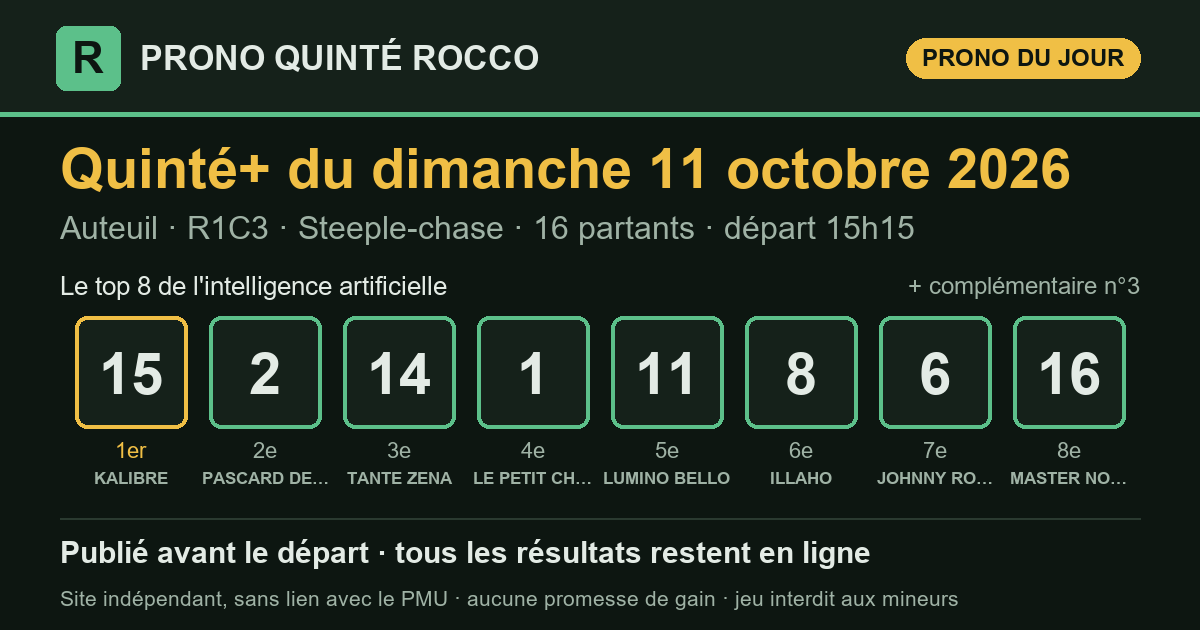
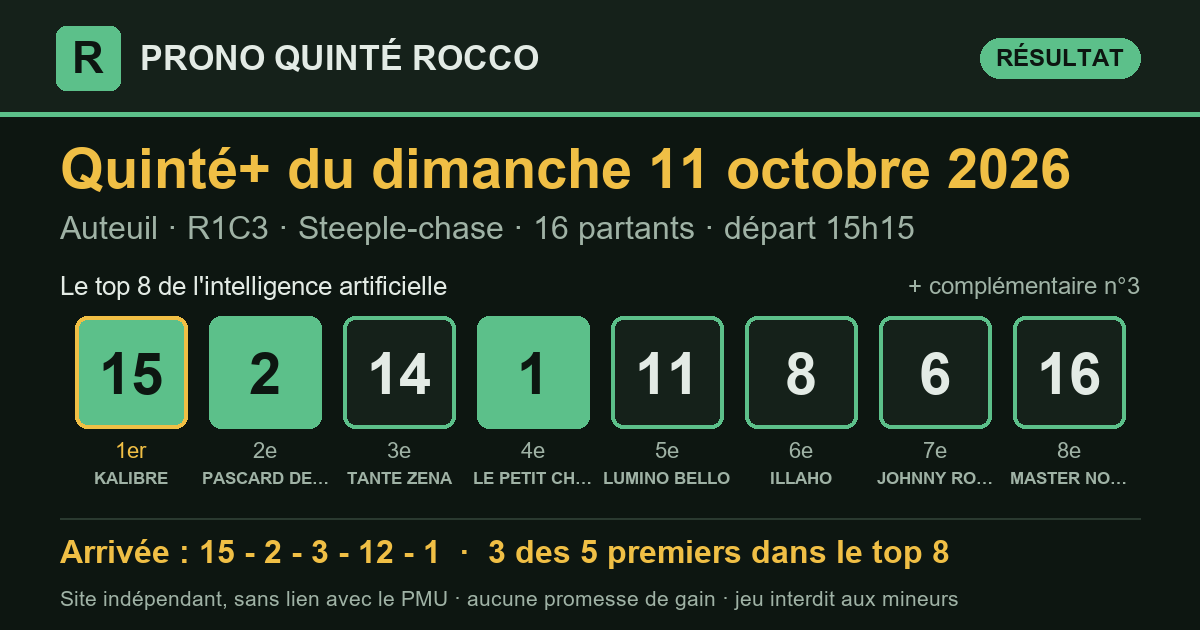
Prono Quinté+ 2026-10-11 Auteuil R1C3 — publié le 11/10/2026 15:35 (heure de Paris)

diff --git a/partants.html b/partants.html
@@ -3,14 +3,14 @@
 <head>
 <meta charset="utf-8">
 <meta name="viewport" content="width=device-width, initial-scale=1, viewport-fit=cover">
-<title>Partants du Quinté+ du dimanche 11 octobre 2026 — Prono Quinté Rocco</title>
+<title>Partants du Quinté+ du lundi 12 octobre 2026 — Prono Quinté Rocco</title>
 <meta name="description" content="Les partants du prochain Quinté+ (programme officiel du PMU), avec le rang du prono IA et les liens vers les pronostics de la presse.">
 <link rel="canonical" href="https://roccogp971.github.io/prono-quinte-rocco/partants.html">
 <link rel="stylesheet" href="style.css?v=9e1a392f">
 <meta property="og:site_name" content="Prono Quinté Rocco">
 <meta property="og:locale" content="fr_FR">
 <meta property="og:type" content="website">
-<meta property="og:title" content="Partants du Quinté+ du dimanche 11 octobre 2026 — Prono Quinté Rocco">
+<meta property="og:title" content="Partants du Quinté+ du lundi 12 octobre 2026 — Prono Quinté Rocco">
 <meta property="og:description" content="Les partants du prochain Quinté+ (programme officiel du PMU), avec le rang du prono IA et les liens vers les pronostics de la presse.">
 <meta property="og:url" content="https://roccogp971.github.io/prono-quinte-rocco/partants.html">
 <meta name="twitter:card" content="summary">
@@ -26,100 +26,100 @@
   <p class="surtitre">Programme officiel du PMU</p>
   <h1>Les partants du prochain Quinté+</h1>
   <div class="fiche-course">
-    <p class="fiche-date">Dimanche 11 octobre 2026</p>
-    <div class="fiche-rc"><span class="pastille" title="Réunion 1">R1</span><span class="pastille" title="Course 3">C3</span><span class="fiche-nom">Prix Montgomery (groupe Iii)</span></div>
-    <p class="meta">Auteuil · Obstacle · 4 700 m · 16 partants</p>
-    <p class="fiche-depart">Départ <b>15:15</b> <span>heure de Paris</span></p>
+    <p class="fiche-date">Lundi 12 octobre 2026</p>
+    <div class="fiche-rc"><span class="pastille" title="Réunion 1">R1</span><span class="pastille" title="Course 4">C4</span><span class="fiche-nom">Prix Jacques Rossi (prix Jules Morgan)</span></div>
+    <p class="meta">Borely · Plat · 2 100 m · 16 partants</p>
+    <p class="fiche-depart">Départ <b>13:55</b> <span>heure de Paris</span></p>
   </div>
   <p class="surtitre">Les pronostics ailleurs sur le web</p>
-  <div class="liens"><a class="lien-ext" href="https://www.turfoo.fr/programmes-courses/261011/reunion1-auteuil/course3-prix-montgomery-groupe-iii/pronostics-presse/" rel="noopener" target="_blank"><b>Les pronostics de la presse →</b><span>sur Turfoo (site extérieur)</span></a><a class="lien-ext" href="https://www.geny.com/programme/2026-10-11" rel="noopener" target="_blank"><b>Partants et pronostics →</b><span>programme du jour sur Geny (site extérieur)</span></a></div>
+  <div class="liens"><a class="lien-ext" href="https://www.turfoo.fr/programmes-courses/261012/reunion1-marseille-borely/course4-prix-jacques-rossi-prix-jules-morgan/pronostics-presse/" rel="noopener" target="_blank"><b>Les pronostics de la presse →</b><span>sur Turfoo (site extérieur)</span></a><a class="lien-ext" href="https://www.geny.com/programme/2026-10-12" rel="noopener" target="_blank"><b>Partants et pronostics →</b><span>programme du jour sur Geny (site extérieur)</span></a></div>
   <div class="liste-boite"><table class="liste-partants">
     <thead><tr><th>N°</th><th>Cheval</th><th class="cote"><span class="long">Cote du matin</span><span class="court">Cote</span></th>
     <th class="ia"><span class="long">Prono IA</span><span class="court">IA</span></th></tr></thead>
     <tbody><tr>
   <td><span class="tapis petit">1</span></td>
-  <td><span class="cheval">LE PETIT CHEVAL</span><span class="sous">B.LE CLERC · F.BELLEMERE</span></td>
-  <td class="cote num">10,0</td>
-  <td class="ia"><span class="etat place">4<sup>e</sup></span></td>
+  <td><span class="cheval">BAYAMOON</span><span class="sous">F.VERON · J.REYNIER (S)</span></td>
+  <td class="cote num">—</td>
+  <td class="ia">—</td>
 </tr><tr>
   <td><span class="tapis petit">2</span></td>
-  <td><span class="cheval">PASCARD DE BEAUSSE</span><span class="sous">G.MASURE · CHAILLE-CHAILLE &amp; PAMART</span></td>
-  <td class="cote num">6,6</td>
-  <td class="ia"><span class="etat place">2<sup>e</sup></span></td>
+  <td><span class="cheval">WINDFLOWER</span><span class="sous">H.BESNIER · P.COTTIER</span></td>
+  <td class="cote num">—</td>
+  <td class="ia">—</td>
 </tr><tr>
   <td><span class="tapis petit">3</span></td>
-  <td><span class="cheval">AMY DU KIFF</span><span class="sous">T.CHEVILLARD · GAB.LEENDERS (S)</span></td>
-  <td class="cote num">13,0</td>
-  <td class="ia"><span class="etat place">compl.</span></td>
+  <td><span class="cheval">MORPHEWAN</span><span class="sous">T.PICCONE · P.COTTIER</span></td>
+  <td class="cote num">—</td>
+  <td class="ia">—</td>
 </tr><tr>
   <td><span class="tapis petit">4</span></td>
-  <td><span class="cheval">QUEL PATRON</span><span class="sous">THO .JOURNIAC · P.JOURNIAC</span></td>
-  <td class="cote num">19,0</td>
+  <td><span class="cheval">PLATA D OCTOBRE</span><span class="sous">H.BOUTIN · MME N.SIGAUD</span></td>
+  <td class="cote num">—</td>
   <td class="ia">—</td>
 </tr><tr>
   <td><span class="tapis petit">5</span></td>
-  <td><span class="cheval">PICKLAND</span><span class="sous">F.GILES · GAB.LEENDERS (S)</span></td>
-  <td class="cote num">34,0</td>
+  <td><span class="cheval">LINFASOMMER</span><span class="sous">A.HAMELIN · M.PITART</span></td>
+  <td class="cote num">—</td>
   <td class="ia">—</td>
 </tr><tr>
   <td><span class="tapis petit">6</span></td>
-  <td><span class="cheval">JOHNNY ROQUE</span><span class="sous">J.CHARRON · D.MELE (S)</span></td>
-  <td class="cote num">10,0</td>
-  <td class="ia"><span class="etat place">7<sup>e</sup></span></td>
+  <td><span class="cheval">BOOGIE</span><span class="sous">A.CRASTUS · N.PERRET (S)</span></td>
+  <td class="cote num">—</td>
+  <td class="ia">—</td>
 </tr><tr>
   <td><span class="tapis petit">7</span></td>
-  <td><span class="cheval">CALIGRAMME</span><span class="sous">A.RENARD · D.MELE (S)</span></td>
-  <td class="cote num">20,0</td>
+  <td><span class="cheval">SOUS INFLUENCE</span><span class="sous">M.VELON · C.ESCUDER</span></td>
+  <td class="cote num">—</td>
   <td class="ia">—</td>
 </tr><tr>
   <td><span class="tapis petit">8</span></td>
-  <td><span class="cheval">ILLAHO</span><span class="sous">J.REVELEY · N. GEORGE &amp; A. ZETTERHOLM</span></td>
-  <td class="cote num">10,0</td>
-  <td class="ia"><span class="etat place">6<sup>e</sup></span></td>
+  <td><span class="cheval">AMEDRAS</span><span class="sous">D.PROVOST · MME L.SALTON</span></td>
+  <td class="cote num">—</td>
+  <td class="ia">—</td>
 </tr><tr>
   <td><span class="tapis petit">9</span></td>
-  <td><span class="cheval">GINJA DES TAILLONS</span><span class="sous">K.NABET · E.ANDIGNE D&#x27;</span></td>
-  <td class="cote num">19,0</td>
+  <td><span class="cheval">STARNBERG</span><span class="sous">J.NICOLEAU · C.ESCUDER</span></td>
+  <td class="cote num">—</td>
   <td class="ia">—</td>
 </tr><tr>
   <td><span class="tapis petit">10</span></td>
-  <td><span class="cheval">LEBRIO DES MOTTES</span><span class="sous">A.ZULIANI · F.NICOLLE</span></td>
-  <td class="cote num">23,0</td>
+  <td><span class="cheval">COMME QUOI</span><span class="sous">S.PASQUIER · N.PERRET (S)</span></td>
+  <td class="cote num">—</td>
   <td class="ia">—</td>
 </tr><tr>
   <td><span class="tapis petit">11</span></td>
-  <td><span class="cheval">LUMINO BELLO</span><span class="sous">L.ZULIANI · SOURDEAU DE BEAUREGARD (S</span></td>
-  <td class="cote num">20,0</td>
-  <td class="ia"><span class="etat place">5<sup>e</sup></span></td>
+  <td><span class="cheval">LOHENGREEN</span><span class="sous">M.GRANDIN · C.ESCUDER</span></td>
+  <td class="cote num">—</td>
+  <td class="ia">—</td>
 </tr><tr>
   <td><span class="tapis petit">12</span></td>
-  <td><span class="cheval">BENOU</span><span class="sous">F.BAYLE · M.ROLLAND (S)</span></td>
-  <td class="cote num">35,0</td>
+  <td><span class="cheval">MAX VERST</span><span class="sous">A.ORANI · R.FRADET (S)</span></td>
+  <td class="cote num">—</td>
   <td class="ia">—</td>
 </tr><tr>
   <td><span class="tapis petit">13</span></td>
-  <td><span class="cheval">KUCHARSKY</span><span class="sous">A.CHESNEAU · Y.FOUIN (S)</span></td>
-  <td class="cote num">50,0</td>
+  <td><span class="cheval">GOLD PLAYER</span><span class="sous">I.MENDIZABAL · F.FORESI</span></td>
+  <td class="cote num">—</td>
   <td class="ia">—</td>
 </tr><tr>
   <td><span class="tapis petit">14</span></td>
-  <td><span class="cheval">TANTE ZENA</span><span class="sous">L.PHILIPPERON · M.SEROR (S)</span></td>
-  <td class="cote num">8,4</td>
-  <td class="ia"><span class="etat place">3<sup>e</sup></span></td>
+  <td><span class="cheval">METS LE FEU</span><span class="sous">E.HARDOUIN · M.PITART</span></td>
+  <td class="cote num">—</td>
+  <td class="ia">—</td>
 </tr><tr>
   <td><span class="tapis petit">15</span></td>
-  <td><span class="cheval">KALIBRE</span><span class="sous">J.PHELIPPE · M.SEROR (S)</span></td>
-  <td class="cote num">5,7</td>
-  <td class="ia"><span class="etat place">1<sup>er</sup></span></td>
+  <td><span class="cheval">NOUS Y SOMMES</span><span class="sous">T.TRULLIER · N.PERRET (S)</span></td>
+  <td class="cote num">—</td>
+  <td class="ia">—</td>
 </tr><tr>
   <td><span class="tapis petit">16</span></td>
-  <td><span class="cheval">MASTER NONANTAIS</span><span class="sous">A.DUVACHER · SOURDEAU DE BEAUREGARD (S</span></td>
-  <td class="cote num">21,0</td>
-  <td class="ia"><span class="etat place">8<sup>e</sup></span></td>
+  <td><span class="cheval">TREATWOOD</span><span class="sous">L.BOISSEAU · N.BELLANGER (S)</span></td>
+  <td class="cote num">—</td>
+  <td class="ia">—</td>
 </tr></tbody>
   </table></div>
-  <p class="meta">Le rang du prono IA est celui publié sur ce site. Sous chaque cheval : jockey · entraîneur. Partants et cotes : programme
-  officiel du PMU, lu le 11/10 à 12:44 (heure de Paris). NP = non-partant.</p>
+  <p class="meta">Le prono IA de cette course sera publié le matin de la course, avant le départ. Sous chaque cheval : jockey · entraîneur. Partants et cotes : programme
+  officiel du PMU, lu le 11/10 à 15:35 (heure de Paris). NP = non-partant.</p>
 </section>
 </main>
 <footer class="pied">

diff --git a/index.html b/index.html
@@ -13,7 +13,7 @@
 <meta property="og:title" content="Pronostic Quinté+ du dimanche 11 octobre 2026 — Prono Quinté Rocco">
 <meta property="og:description" content="Le pronostic du Quinté+ par intelligence artificielle, publié avant le départ, avec tous les résultats et le rendement réel.">
 <meta property="og:url" content="https://roccogp971.github.io/prono-quinte-rocco/">
-<meta property="og:image" content="https://roccogp971.github.io/prono-quinte-rocco/partage/2026-10-11.png?v=43c661ad">
+<meta property="og:image" content="https://roccogp971.github.io/prono-quinte-rocco/partage/2026-10-11.png?v=3a40b48b">
 <meta property="og:image:type" content="image/png">
 <meta property="og:image:width" content="1200">
 <meta property="og:image:height" content="630">
@@ -28,15 +28,15 @@
 </header>
 <main>
 <section class="une" aria-labelledby="t-jour">
-  <p class="surtitre">Quinté+ du jour</p>
+  <p class="surtitre">Dernier Quinté+</p>
   <h1 id="t-jour">Le prono du Quinté+, résultats compris</h1>
   <p class="chapo">Chaque matin, une intelligence artificielle classe les partants du
   Quinté+. Le classement est publié avant le départ, puis comparé à l'arrivée
   officielle. Tous les résultats restent en ligne, les bons comme les mauvais.</p>
   <article class="carte-course">
-  <div class="tete"><h2>Dimanche 11 octobre 2026</h2><span class="etat attente">arrivée en attente</span></div>
+  <div class="tete"><h2>Dimanche 11 octobre 2026</h2><span class="etat place">3 des 5 premiers dans le top 8</span></div>
   <p class="meta">Auteuil · <strong>R1C3</strong> · Steeple-chase · 16 partants · lisibilité <span class="note" aria-label="note 2 sur 5"><i class="on"></i><i class="on"></i><i class=""></i><i class=""></i><i class=""></i></span> 2/5</p>
-  <ol class="partants" aria-label="Classement du prono"><li><span class="rang">1<sup>er</sup></span><span class="tapis ">15</span><span class="nom">KALIBRE</span></li><li><span class="rang">2<sup>e</sup></span><span class="tapis ">2</span><span class="nom">PASCARD DE BEAUSSE</span></li><li><span class="rang">3<sup>e</sup></span><span class="tapis ">14</span><span class="nom">TANTE ZENA</span></li><li><span class="rang">4<sup>e</sup></span><span class="tapis ">1</span><span class="nom">LE PETIT CHEVAL</span></li><li><span class="rang">5<sup>e</sup></span><span class="tapis ">11</span><span class="nom">LUMINO BELLO</span></li><li><span class="rang">6<sup>e</sup></span><span class="tapis ">8</span><span class="nom">ILLAHO</span></li><li><span class="rang">7<sup>e</sup></span><span class="tapis ">6</span><span class="nom">JOHNNY ROQUE</span></li><li><span class="rang">8<sup>e</sup></span><span class="tapis ">16</span><span class="nom">MASTER NONANTAIS</span></li><li><span class="rang">compl.</span><span class="tapis creux">3</span><span class="nom">AMY DU KIFF</span></li></ol>
+  <ol class="partants" aria-label="Classement du prono"><li><span class="rang">1<sup>er</sup></span><span class="tapis plein">15</span><span class="nom">KALIBRE</span></li><li><span class="rang">2<sup>e</sup></span><span class="tapis plein">2</span><span class="nom">PASCARD DE BEAUSSE</span></li><li><span class="rang">3<sup>e</sup></span><span class="tapis ">14</span><span class="nom">TANTE ZENA</span></li><li><span class="rang">4<sup>e</sup></span><span class="tapis plein">1</span><span class="nom">LE PETIT CHEVAL</span></li><li><span class="rang">5<sup>e</sup></span><span class="tapis ">11</span><span class="nom">LUMINO BELLO</span></li><li><span class="rang">6<sup>e</sup></span><span class="tapis ">8</span><span class="nom">ILLAHO</span></li><li><span class="rang">7<sup>e</sup></span><span class="tapis ">6</span><span class="nom">JOHNNY ROQUE</span></li><li><span class="rang">8<sup>e</sup></span><span class="tapis ">16</span><span class="nom">MASTER NONANTAIS</span></li><li><span class="rang">compl.</span><span class="tapis creux plein">3</span><span class="nom">AMY DU KIFF</span></li></ol>
   <div class="pied-carte"><span>Analysé le 11/10 à 12:33 · en ligne le 11/10 à 12:44 · départ à 15:15 (heure de Paris)</span><span><a href="quinte/2026-10-11.html">Détail de la course</a></span></div>
 </article>
   <div class="legende"><span><span class="tapis plein petit">4</span> numéro dans les 5 premiers</span>
@@ -53,7 +53,7 @@
 </section>
 <section class="bilan" aria-labelledby="t-bilan">
   <h2 id="t-bilan">Le bilan depuis le 8 septembre 2026</h2>
-  <div class="tableau chiffres"><div class="case"><span class="gros ">74 %</span><span class="lib">des arrivants trouvés dans le top 8</span><span class="ref">un top 8 tiré au hasard : 52 %</span></div><div class="case"><span class="gros ">84 %</span><span class="lib">des gagnants présents dans le top 8</span><span class="ref"></span></div><div class="case"><span class="gros ">53 %</span><span class="lib">1er du prono placé</span><span class="ref">sur 32 Quintés</span></div><div class="case"><span class="gros perte">0,96 €</span><span class="lib">rendus pour 1 € joué placé sur le 1er</span><span class="ref">rapports officiels PMU</span></div><div class="case"><span class="gros perte">0,44 €</span><span class="lib">rendus pour 1 € joué en Quinté+ combiné top 8</span><span class="ref">56 combinaisons, rapports PMU.fr, sur 32 Quintés</span></div></div>
+  <div class="tableau chiffres"><div class="case"><span class="gros ">74 %</span><span class="lib">des arrivants trouvés dans le top 8</span><span class="ref">un top 8 tiré au hasard : 52 %</span></div><div class="case"><span class="gros ">85 %</span><span class="lib">des gagnants présents dans le top 8</span><span class="ref"></span></div><div class="case"><span class="gros ">53 %</span><span class="lib">1er du prono placé</span><span class="ref">sur 32 Quintés</span></div><div class="case"><span class="gros perte">0,96 €</span><span class="lib">rendus pour 1 € joué placé sur le 1er</span><span class="ref">rapports officiels PMU</span></div><div class="case"><span class="gros perte">0,42 €</span><span class="lib">rendus pour 1 € joué en Quinté+ combiné top 8</span><span class="ref">56 combinaisons, rapports PMU.fr, sur 33 Quintés</span></div></div>
   <p class="avertissement">Moins de 1 € rendu pour 1 € joué : suivre ce prono à la lettre fait <strong>perdre de l'argent</strong> sur cette période. Il sert à analyser une course, pas à promettre un gain.</p>
 </section>
 </main>

diff --git a/quinte/2026-10-11.html b/quinte/2026-10-11.html
@@ -13,7 +13,7 @@
 <meta property="og:title" content="Pronostic Quinté+ du dimanche 11 octobre 2026 à Auteuil — Prono Quinté Rocco">
 <meta property="og:description" content="Prono Quinté+ du dimanche 11 octobre 2026 (Auteuil) : top 8, arrivée officielle et rapports PMU.fr.">
 <meta property="og:url" content="https://roccogp971.github.io/prono-quinte-rocco/quinte/2026-10-11.html">
-<meta property="og:image" content="https://roccogp971.github.io/prono-quinte-rocco/partage/2026-10-11.png?v=43c661ad">
+<meta property="og:image" content="https://roccogp971.github.io/prono-quinte-rocco/partage/2026-10-11.png?v=3a40b48b">
 <meta property="og:image:type" content="image/png">
 <meta property="og:image:width" content="1200">
 <meta property="og:image:height" content="630">
@@ -32,11 +32,19 @@
   <h1>Pronostic Quinté+ du dimanche 11 octobre 2026</h1>
   <p class="chapo">Auteuil · R1C3 · Steeple-chase · 16 partants</p>
   <article class="carte-course">
-  <div class="tete"><h2>Le prono : top 8 et complémentaire</h2><span class="etat attente">arrivée en attente</span></div>
+  <div class="tete"><h2>Le prono : top 8 et complémentaire</h2><span class="etat place">3 des 5 premiers dans le top 8</span></div>
   <p class="meta">Auteuil · <strong>R1C3</strong> · Steeple-chase · 16 partants · lisibilité <span class="note" aria-label="note 2 sur 5"><i class="on"></i><i class="on"></i><i class=""></i><i class=""></i><i class=""></i></span> 2/5</p>
-  <ol class="partants" aria-label="Classement du prono"><li><span class="rang">1<sup>er</sup></span><span class="tapis ">15</span><span class="nom">KALIBRE</span></li><li><span class="rang">2<sup>e</sup></span><span class="tapis ">2</span><span class="nom">PASCARD DE BEAUSSE</span></li><li><span class="rang">3<sup>e</sup></span><span class="tapis ">14</span><span class="nom">TANTE ZENA</span></li><li><span class="rang">4<sup>e</sup></span><span class="tapis ">1</span><span class="nom">LE PETIT CHEVAL</span></li><li><span class="rang">5<sup>e</sup></span><span class="tapis ">11</span><span class="nom">LUMINO BELLO</span></li><li><span class="rang">6<sup>e</sup></span><span class="tapis ">8</span><span class="nom">ILLAHO</span></li><li><span class="rang">7<sup>e</sup></span><span class="tapis ">6</span><span class="nom">JOHNNY ROQUE</span></li><li><span class="rang">8<sup>e</sup></span><span class="tapis ">16</span><span class="nom">MASTER NONANTAIS</span></li><li><span class="rang">compl.</span><span class="tapis creux">3</span><span class="nom">AMY DU KIFF</span></li></ol>
+  <ol class="partants" aria-label="Classement du prono"><li><span class="rang">1<sup>er</sup></span><span class="tapis plein">15</span><span class="nom">KALIBRE</span></li><li><span class="rang">2<sup>e</sup></span><span class="tapis plein">2</span><span class="nom">PASCARD DE BEAUSSE</span></li><li><span class="rang">3<sup>e</sup></span><span class="tapis ">14</span><span class="nom">TANTE ZENA</span></li><li><span class="rang">4<sup>e</sup></span><span class="tapis plein">1</span><span class="nom">LE PETIT CHEVAL</span></li><li><span class="rang">5<sup>e</sup></span><span class="tapis ">11</span><span class="nom">LUMINO BELLO</span></li><li><span class="rang">6<sup>e</sup></span><span class="tapis ">8</span><span class="nom">ILLAHO</span></li><li><span class="rang">7<sup>e</sup></span><span class="tapis ">6</span><span class="nom">JOHNNY ROQUE</span></li><li><span class="rang">8<sup>e</sup></span><span class="tapis ">16</span><span class="nom">MASTER NONANTAIS</span></li><li><span class="rang">compl.</span><span class="tapis creux plein">3</span><span class="nom">AMY DU KIFF</span></li></ol>
   <div class="pied-carte"><span>Analysé le 11/10 à 12:33 · en ligne le 11/10 à 12:44 · départ à 15:15 (heure de Paris)</span><span></span></div>
 </article>
+<section class="carte-course" aria-labelledby="t-arr">
+  <div class="tete"><h2 id="t-arr">Arrivée officielle</h2></div>
+  <div class="rangee"><span class="tapis plein" title="1er">15</span><span class="tapis plein" title="2e">2</span><span class="tapis creux" title="3e">3</span><span class="tapis creux" title="4e">12</span><span class="tapis plein" title="5e">1</span></div>
+  <div class="deux">
+    <div><h3>Ce qu'aurait rendu le prono</h3><dl class="kv"><dt>1 € placé sur le 1er (n°15)</dt><dd>rapport manquant</dd><dt>1 € gagnant sur le 1er</dt><dd>rapport manquant</dd><dt>Quinté+ combiné top 8 (mise 112 €)</dt><dd>0,00 €</dd><dt>dont</dt><dd>aucun gain</dd></dl></div>
+    <div><h3>Rapports officiels</h3><dl class="kv"><dt>e-Quinté+ Ordre (2 €)</dt><dd>59 984,40 €</dd><dt>e-Quinté+ Désordre (2 €)</dt><dd>745,80 €</dd><dt>e-Bonus 4sur5 (2 €)</dt><dd>5,80 €</dd><dt>e-Bonus 3 (2 €)</dt><dd>4,40 €</dd></dl></div>
+  </div>
+</section>
 </section>
 </main>
 <footer class="pied">

diff --git a/resultats.html b/resultats.html
@@ -36,8 +36,8 @@
     <tbody><tr>
   <td class="c-date"><a href="quinte/2026-10-11.html">11/10</a></td>
   <td class="c-course">Auteuil<br><span class="meta">R1C3 · Steeple-chase</span></td>
-  <td data-label="Top 8 du prono"><div class="rangee"><span class="tapis petit">15</span><span class="tapis petit">2</span><span class="tapis petit">14</span><span class="tapis petit">1</span><span class="tapis petit">11</span><span class="tapis petit">8</span><span class="tapis petit">6</span><span class="tapis petit">16</span></div></td><td data-label="Arrivée"><span class="etat attente">en attente</span></td>
-  <td class="num" data-label="Trouvés">—</td><td data-label="1er du prono"><span class="etat attente">—</span></td><td class="mont" data-label="Quinté+ top 8 (mise 112 €)">—</td>
+  <td data-label="Top 8 du prono"><div class="rangee"><span class="tapis plein petit">15</span><span class="tapis plein petit">2</span><span class="tapis petit">14</span><span class="tapis plein petit">1</span><span class="tapis petit">11</span><span class="tapis petit">8</span><span class="tapis petit">6</span><span class="tapis petit">16</span></div></td><td data-label="Arrivée"><div class="rangee"><span class="tapis plein petit" title="1er">15</span><span class="tapis plein petit" title="2e">2</span><span class="tapis creux petit" title="3e">3</span><span class="tapis creux petit" title="4e">12</span><span class="tapis plein petit" title="5e">1</span></div></td>
+  <td class="num" data-label="Trouvés">3/5</td><td data-label="1er du prono"><span class="etat gagne">gagnant</span></td><td class="mont perte" data-label="Quinté+ top 8 (mise 112 €)">0,00 €</td>
 </tr><tr>
   <td class="c-date"><a href="quinte/2026-10-10.html">10/10</a></td>
   <td class="c-course">Caen<br><span class="meta">R1C4 · Attelé</span></td>
@@ -203,7 +203,7 @@
 </section>
 <section class="bilan" aria-labelledby="t-bilan">
   <h2 id="t-bilan">Le bilan depuis le 8 septembre 2026</h2>
-  <div class="tableau chiffres"><div class="case"><span class="gros ">74 %</span><span class="lib">des arrivants trouvés dans le top 8</span><span class="ref">un top 8 tiré au hasard : 52 %</span></div><div class="case"><span class="gros ">84 %</span><span class="lib">des gagnants présents dans le top 8</span><span class="ref"></span></div><div class="case"><span class="gros ">53 %</span><span class="lib">1er du prono placé</span><span class="ref">sur 32 Quintés</span></div><div class="case"><span class="gros perte">0,96 €</span><span class="lib">rendus pour 1 € joué placé sur le 1er</span><span class="ref">rapports officiels PMU</span></div><div class="case"><span class="gros perte">0,44 €</span><span class="lib">rendus pour 1 € joué en Quinté+ combiné top 8</span><span class="ref">56 combinaisons, rapports PMU.fr, sur 32 Quintés</span></div></div>
+  <div class="tableau chiffres"><div class="case"><span class="gros ">74 %</span><span class="lib">des arrivants trouvés dans le top 8</span><span class="ref">un top 8 tiré au hasard : 52 %</span></div><div class="case"><span class="gros ">85 %</span><span class="lib">des gagnants présents dans le top 8</span><span class="ref"></span></div><div class="case"><span class="gros ">53 %</span><span class="lib">1er du prono placé</span><span class="ref">sur 32 Quintés</span></div><div class="case"><span class="gros perte">0,96 €</span><span class="lib">rendus pour 1 € joué placé sur le 1er</span><span class="ref">rapports officiels PMU</span></div><div class="case"><span class="gros perte">0,42 €</span><span class="lib">rendus pour 1 € joué en Quinté+ combiné top 8</span><span class="ref">56 combinaisons, rapports PMU.fr, sur 33 Quintés</span></div></div>
   <p class="avertissement">Moins de 1 € rendu pour 1 € joué : suivre ce prono à la lettre fait <strong>perdre de l'argent</strong> sur cette période. Il sert à analyser une course, pas à promettre un gain.</p>
 </section>
 </main>
